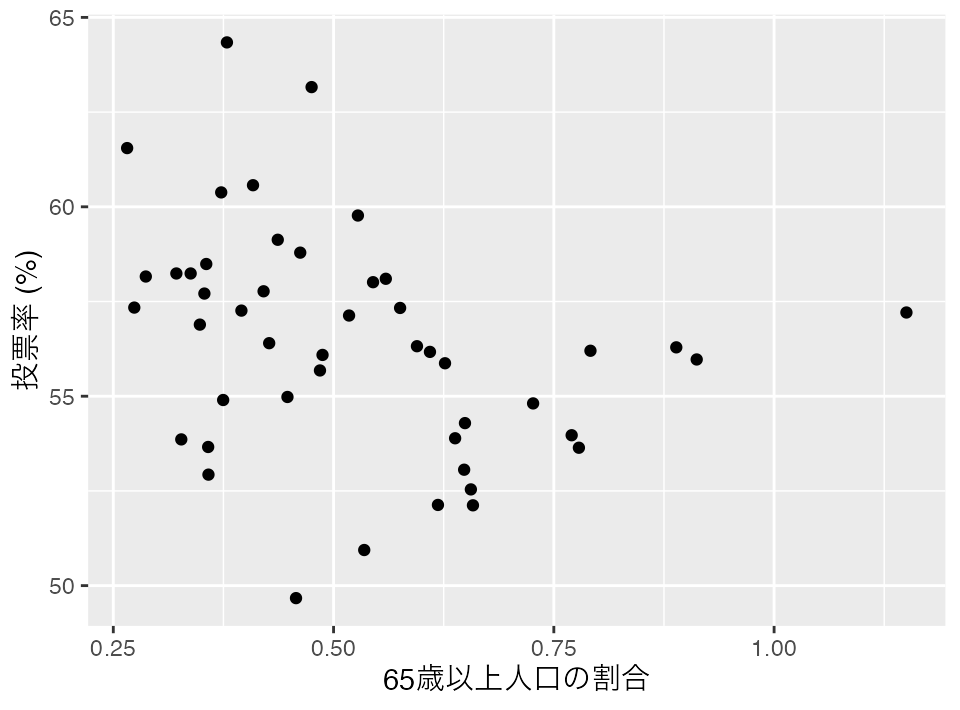
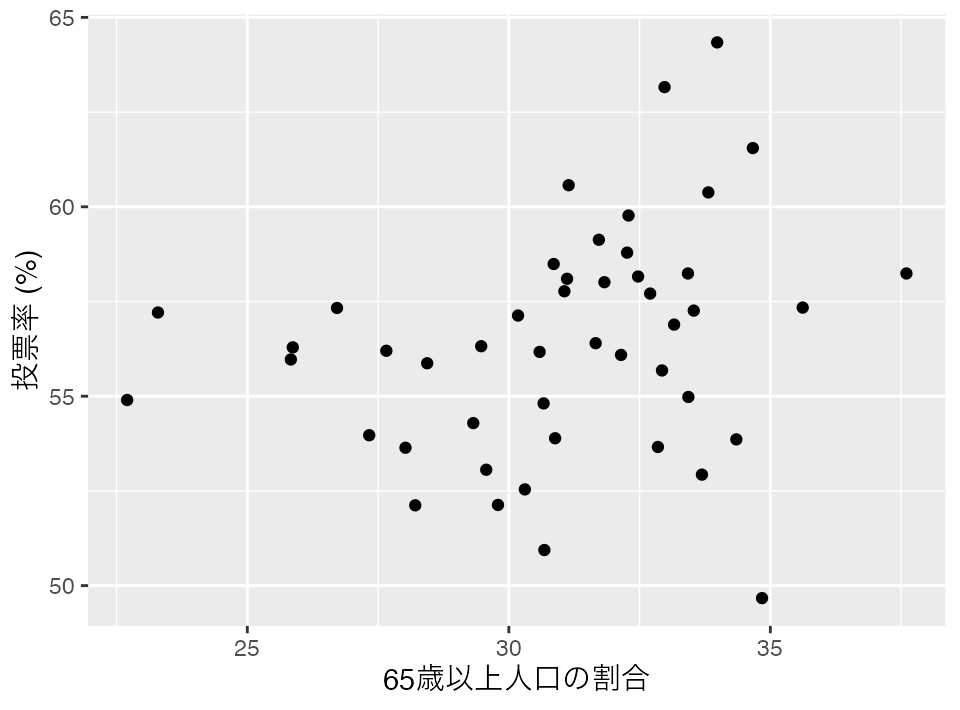
no message

diff --git a/docs/slide/slide06.html b/docs/slide/slide06.html
@@ -426,12 +426,12 @@
 <p>データの構造は基本的に「<strong>四角形</strong>」</p>
 <div class="cell" data-layout-align="center">
 <div class="cell-output-display">
-<div id="fmeszipckm" style="overflow-x:auto;overflow-y:auto;width:auto;height:auto;">
+<div id="hqbzrudlkf" style="overflow-x:auto;overflow-y:auto;width:auto;height:auto;">
 <style>html {
   font-family: -apple-system, BlinkMacSystemFont, 'Segoe UI', Roboto, Oxygen, Ubuntu, Cantarell, 'Helvetica Neue', 'Fira Sans', 'Droid Sans', Arial, sans-serif;
 }
 
-#fmeszipckm .gt_table {
+#hqbzrudlkf .gt_table {
   display: table;
   border-collapse: collapse;
   margin-left: auto;
@@ -456,7 +456,7 @@
   border-left-color: #D3D3D3;
 }
 
-#fmeszipckm .gt_heading {
+#hqbzrudlkf .gt_heading {
   background-color: #FFFFFF;
   text-align: center;
   border-bottom-color: #FFFFFF;
@@ -468,7 +468,7 @@
   border-right-color: #D3D3D3;
 }
 
-#fmeszipckm .gt_title {
+#hqbzrudlkf .gt_title {
   color: #333333;
   font-size: 125%;
   font-weight: initial;
@@ -480,7 +480,7 @@
   border-bottom-width: 0;
 }
 
-#fmeszipckm .gt_subtitle {
+#hqbzrudlkf .gt_subtitle {
   color: #333333;
   font-size: 85%;
   font-weight: initial;
@@ -492,13 +492,13 @@
   border-top-width: 0;
 }
 
-#fmeszipckm .gt_bottom_border {
+#hqbzrudlkf .gt_bottom_border {
   border-bottom-style: solid;
   border-bottom-width: 2px;
   border-bottom-color: #D3D3D3;
 }
 
-#fmeszipckm .gt_col_headings {
+#hqbzrudlkf .gt_col_headings {
   border-top-style: solid;
   border-top-width: 2px;
   border-top-color: #D3D3D3;
@@ -513,7 +513,7 @@
   border-right-color: #D3D3D3;
 }
 
-#fmeszipckm .gt_col_heading {
+#hqbzrudlkf .gt_col_heading {
   color: #333333;
   background-color: #FFFFFF;
   font-size: 100%;
@@ -533,7 +533,7 @@
   overflow-x: hidden;
 }
 
-#fmeszipckm .gt_column_spanner_outer {
+#hqbzrudlkf .gt_column_spanner_outer {
   color: #333333;
   background-color: #FFFFFF;
   font-size: 100%;
@@ -545,15 +545,15 @@
   padding-right: 4px;
 }
 
-#fmeszipckm .gt_column_spanner_outer:first-child {
+#hqbzrudlkf .gt_column_spanner_outer:first-child {
   padding-left: 0;
 }
 
-#fmeszipckm .gt_column_spanner_outer:last-child {
+#hqbzrudlkf .gt_column_spanner_outer:last-child {
   padding-right: 0;
 }
 
-#fmeszipckm .gt_column_spanner {
+#hqbzrudlkf .gt_column_spanner {
   border-bottom-style: solid;
   border-bottom-width: 2px;
   border-bottom-color: #D3D3D3;
@@ -565,7 +565,7 @@
   width: 100%;
 }
 
-#fmeszipckm .gt_group_heading {
+#hqbzrudlkf .gt_group_heading {
   padding-top: 8px;
   padding-bottom: 8px;
   padding-left: 5px;
@@ -590,7 +590,7 @@
   vertical-align: middle;
 }
 
-#fmeszipckm .gt_empty_group_heading {
+#hqbzrudlkf .gt_empty_group_heading {
   padding: 0.5px;
   color: #333333;
   background-color: #FFFFFF;
@@ -605,15 +605,15 @@
   vertical-align: middle;
 }
 
-#fmeszipckm .gt_from_md > :first-child {
+#hqbzrudlkf .gt_from_md > :first-child {
   margin-top: 0;
 }
 
-#fmeszipckm .gt_from_md > :last-child {
+#hqbzrudlkf .gt_from_md > :last-child {
   margin-bottom: 0;
 }
 
-#fmeszipckm .gt_row {
+#hqbzrudlkf .gt_row {
   padding-top: 8px;
   padding-bottom: 8px;
   padding-left: 5px;
@@ -632,7 +632,7 @@
   overflow-x: hidden;
 }
 
-#fmeszipckm .gt_stub {
+#hqbzrudlkf .gt_stub {
   color: #333333;
   background-color: #FFFFFF;
   font-size: 100%;
@@ -645,7 +645,7 @@
   padding-right: 5px;
 }
 
-#fmeszipckm .gt_stub_row_group {
+#hqbzrudlkf .gt_stub_row_group {
   color: #333333;
   background-color: #FFFFFF;
   font-size: 100%;
@@ -659,11 +659,11 @@
   vertical-align: top;
 }
 
-#fmeszipckm .gt_row_group_first td {
+#hqbzrudlkf .gt_row_group_first td {
   border-top-width: 2px;
 }
 
-#fmeszipckm .gt_summary_row {
+#hqbzrudlkf .gt_summary_row {
   color: #333333;
   background-color: #FFFFFF;
   text-transform: inherit;
@@ -673,16 +673,16 @@
   padding-right: 5px;
 }
 
-#fmeszipckm .gt_first_summary_row {
+#hqbzrudlkf .gt_first_summary_row {
   border-top-style: solid;
   border-top-color: #D3D3D3;
 }
 
-#fmeszipckm .gt_first_summary_row.thick {
+#hqbzrudlkf .gt_first_summary_row.thick {
   border-top-width: 2px;
 }
 
-#fmeszipckm .gt_last_summary_row {
+#hqbzrudlkf .gt_last_summary_row {
   padding-top: 8px;
   padding-bottom: 8px;
   padding-left: 5px;
@@ -692,7 +692,7 @@
   border-bottom-color: #D3D3D3;
 }
 
-#fmeszipckm .gt_grand_summary_row {
+#hqbzrudlkf .gt_grand_summary_row {
   color: #333333;
   background-color: #FFFFFF;
   text-transform: inherit;
@@ -702,7 +702,7 @@
   padding-right: 5px;
 }
 
-#fmeszipckm .gt_first_grand_summary_row {
+#hqbzrudlkf .gt_first_grand_summary_row {
   padding-top: 8px;
   padding-bottom: 8px;
   padding-left: 5px;
@@ -712,11 +712,11 @@
   border-top-color: #D3D3D3;
 }
 
-#fmeszipckm .gt_striped {
+#hqbzrudlkf .gt_striped {
   background-color: rgba(128, 128, 128, 0.05);
 }
 
-#fmeszipckm .gt_table_body {
+#hqbzrudlkf .gt_table_body {
   border-top-style: solid;
   border-top-width: 2px;
   border-top-color: #D3D3D3;
@@ -725,7 +725,7 @@
   border-bottom-color: #D3D3D3;
 }
 
-#fmeszipckm .gt_footnotes {
+#hqbzrudlkf .gt_footnotes {
   color: #333333;
   background-color: #FFFFFF;
   border-bottom-style: none;
@@ -739,7 +739,7 @@
   border-right-color: #D3D3D3;
 }
 
-#fmeszipckm .gt_footnote {
+#hqbzrudlkf .gt_footnote {
   margin: 0px;
   font-size: 90%;
   padding-left: 4px;
@@ -748,7 +748,7 @@
   padding-right: 5px;
 }
 
-#fmeszipckm .gt_sourcenotes {
+#hqbzrudlkf .gt_sourcenotes {
   color: #333333;
   background-color: #FFFFFF;
   border-bottom-style: none;
@@ -762,7 +762,7 @@
   border-right-color: #D3D3D3;
 }
 
-#fmeszipckm .gt_sourcenote {
+#hqbzrudlkf .gt_sourcenote {
   font-size: 90%;
   padding-top: 4px;
   padding-bottom: 4px;
@@ -770,60 +770,60 @@
   padding-right: 5px;
 }
 
-#fmeszipckm .gt_left {
+#hqbzrudlkf .gt_left {
   text-align: left;
 }
 
-#fmeszipckm .gt_center {
+#hqbzrudlkf .gt_center {
   text-align: center;
 }
 
-#fmeszipckm .gt_right {
+#hqbzrudlkf .gt_right {
   text-align: right;
   font-variant-numeric: tabular-nums;
 }
 
-#fmeszipckm .gt_font_normal {
+#hqbzrudlkf .gt_font_normal {
   font-weight: normal;
 }
 
-#fmeszipckm .gt_font_bold {
+#hqbzrudlkf .gt_font_bold {
   font-weight: bold;
 }
 
-#fmeszipckm .gt_font_italic {
+#hqbzrudlkf .gt_font_italic {
   font-style: italic;
 }
 
-#fmeszipckm .gt_super {
+#hqbzrudlkf .gt_super {
   font-size: 65%;
 }
 
-#fmeszipckm .gt_footnote_marks {
+#hqbzrudlkf .gt_footnote_marks {
   font-style: italic;
   font-weight: normal;
   font-size: 75%;
   vertical-align: 0.4em;
 }
 
-#fmeszipckm .gt_asterisk {
+#hqbzrudlkf .gt_asterisk {
   font-size: 100%;
   vertical-align: 0;
 }
 
-#fmeszipckm .gt_slash_mark {
+#hqbzrudlkf .gt_slash_mark {
   font-size: 0.7em;
   line-height: 0.7em;
   vertical-align: 0.15em;
 }
 
-#fmeszipckm .gt_fraction_numerator {
+#hqbzrudlkf .gt_fraction_numerator {
   font-size: 0.6em;
   line-height: 0.6em;
   vertical-align: 0.45em;
 }
 
-#fmeszipckm .gt_fraction_denominator {
+#hqbzrudlkf .gt_fraction_denominator {
   font-size: 0.6em;
   line-height: 0.6em;
   vertical-align: -0.05em;
@@ -2789,7 +2789,7 @@
 </div><div class="column" style="width:49%;">
 <div class="cell" data-layout-align="center">
 <div class="sourceCode" id="cb3"><pre class="sourceCode numberSource r cell-code number-lines code-with-copy"><code class="sourceCode r"><span id="cb3-1"><a href="#cb3-1"></a>df <span class="sc">%&gt;%</span></span>
-<span id="cb3-2"><a href="#cb3-2"></a>  <span class="fu">ggplot</span>(<span class="fu">aes</span>(<span class="at">x =</span> Finance, <span class="at">y =</span> Turnout)) <span class="sc">+</span></span>
+<span id="cb3-2"><a href="#cb3-2"></a>  <span class="fu">ggplot</span>(<span class="fu">aes</span>(<span class="at">x =</span> Over65, <span class="at">y =</span> Turnout)) <span class="sc">+</span></span>
 <span id="cb3-3"><a href="#cb3-3"></a>  <span class="fu">geom_point</span>() <span class="sc">+</span></span>
 <span id="cb3-4"><a href="#cb3-4"></a>  <span class="fu">labs</span>(<span class="at">x =</span> <span class="st">"65歳以上人口の割合"</span>, </span>
 <span id="cb3-5"><a href="#cb3-5"></a>       <span class="at">y =</span> <span class="st">"投票率 (%)"</span>)</span></code><button title="コピーする" class="code-copy-button"><i class="bi"></i></button></pre></div>
